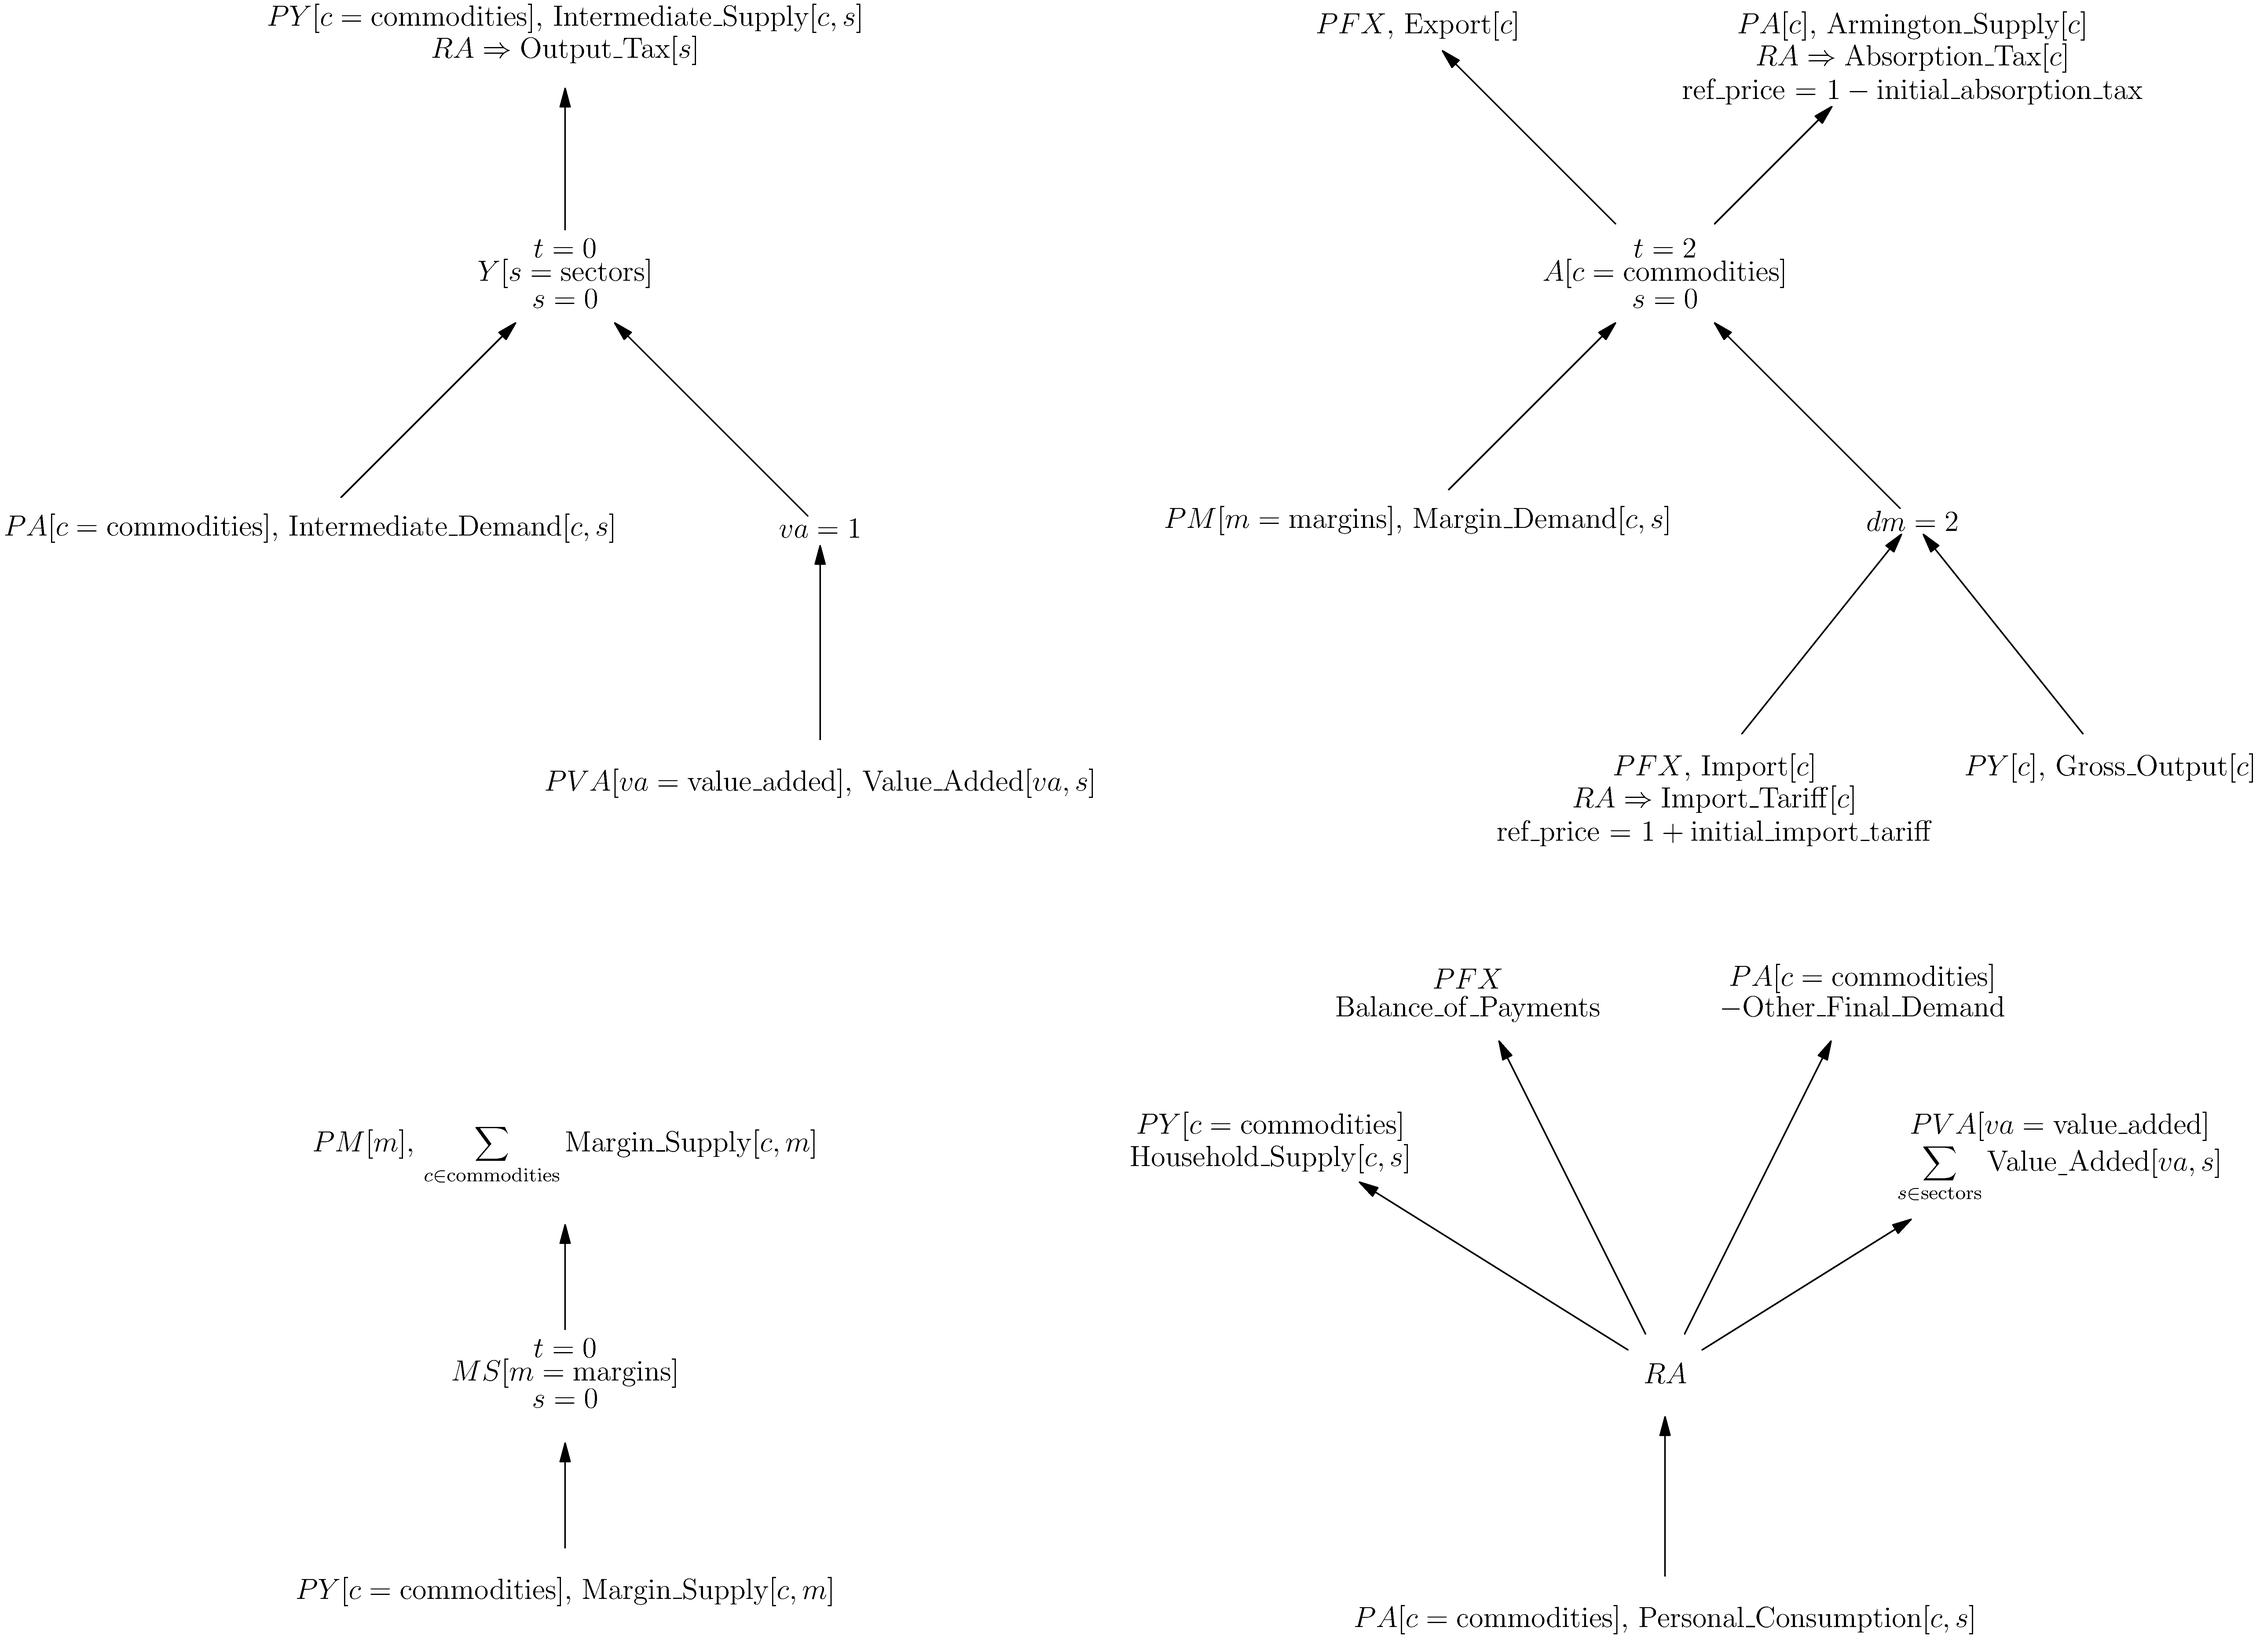
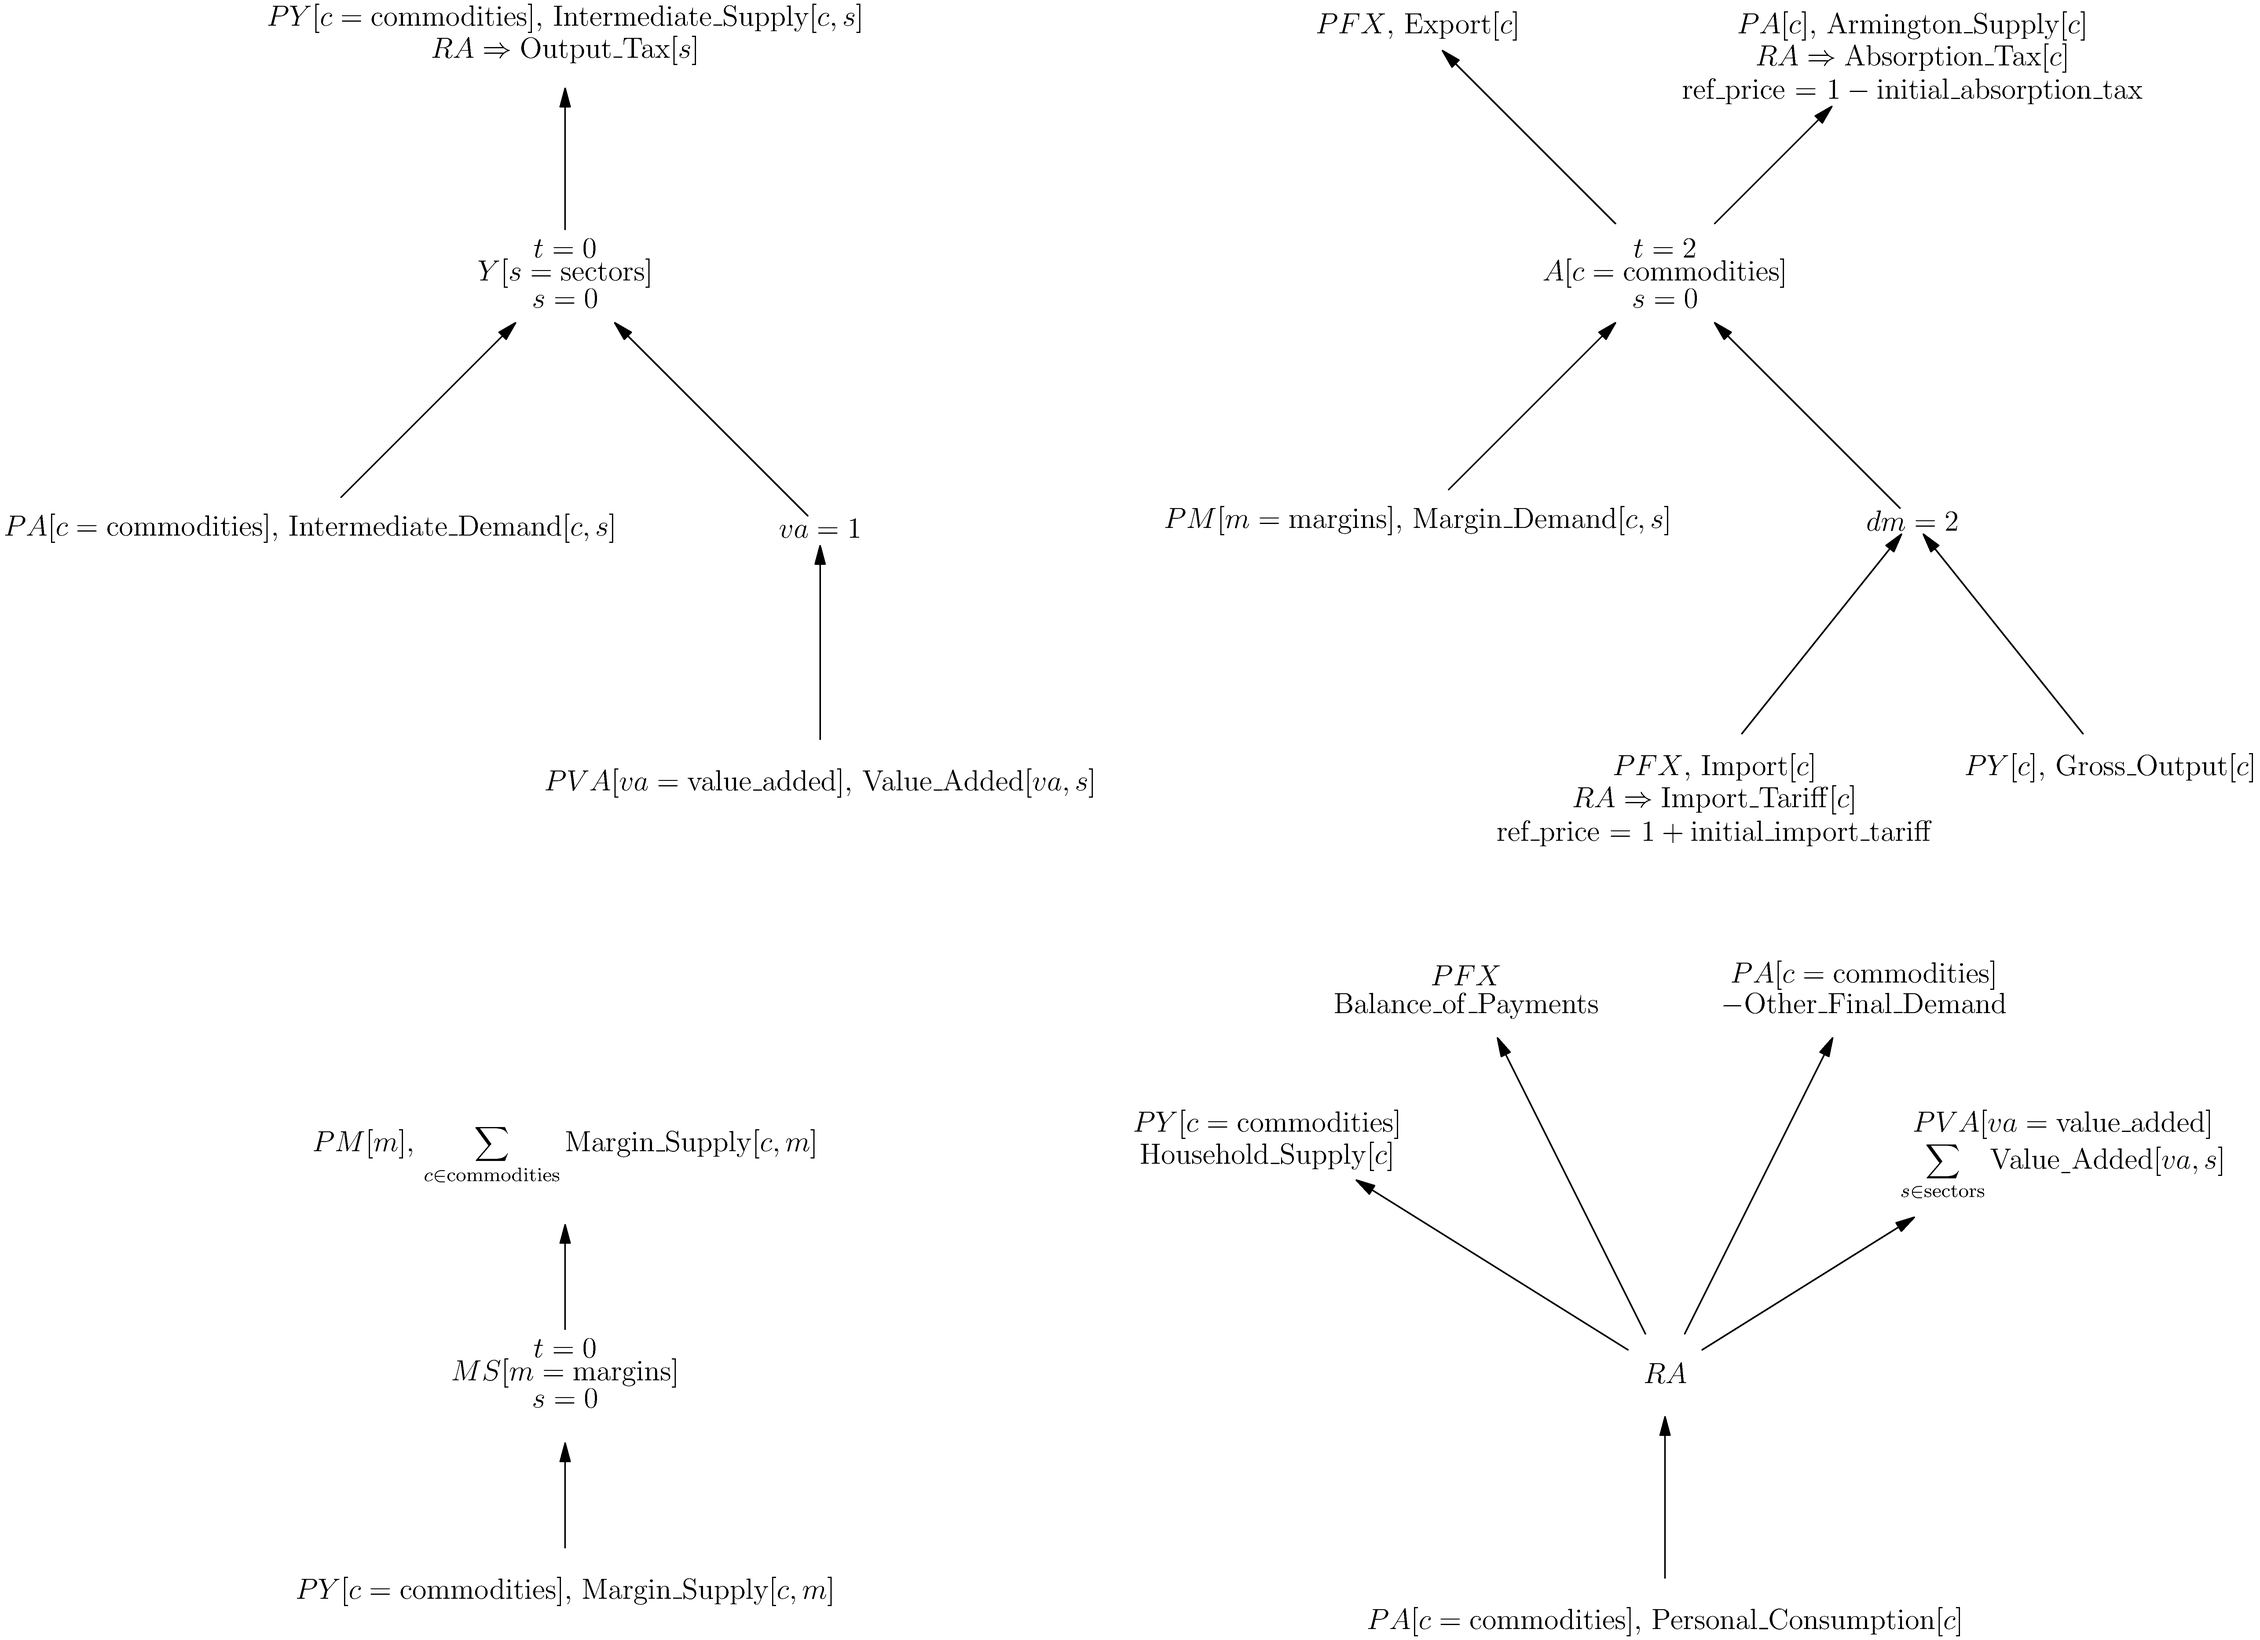
Update model documentation

diff --git a/docs/src/model/overview.md b/docs/src/model/overview.md
@@ -32,17 +32,18 @@ Notice the total value of this input at the benchmark equilibrium is the produce
 \end{align*}
 ```
 
+The same idea holds for the consumer $RA$, except that outputs represent endowments and inputs represent final demands.
 
+## Social Accounting Matrix
 
-## Social Account Matrix
+This can be converted to a traditional social accounting matrix by taking the sectors and consumers on the rows and the commodities on the columns: 
 
-This can be converted to a traditional social account matrix format by with the sectors and consumers on the rows and the commodities on the columns. However, doing so will obscure the nested structure of the production sectors, hide the elasticities, and require additional discussion to allocate taxes.
+|           | $Y[s]$                    | $A[c]$              | $MS[m]$                   | $RA$ | 
+|:---:      |:---:                      |:---:                |:---:                      |:---:|
+| $PY[c]$   | Intermediate_Supply[c,s]  | -Gross_Output[c]    | -Margin_Supply[c,m]       | Household_Supply[c]      |         
+| $PA[c]$   | -Intermediate_Demand[c,s] | Armington_Supply[c] |                           | -Other_Final_Demand - Personal_Consumption[c]      |      
+| $PM[m]$   |                           | -Margin_Demand[c,s] | $\sum {\rm Margin\_Supply}[c,m]$ |       |      
+| $PFX$     |                           | Export[c]-Import[c] |                           | Balance_of_Payments     |    
+| $PVA[va]$ | Value_Added[va,s]         |                     |                           | $\sum {\rm Value\_Added}[va,s]$     |        
 
-
-| | $Y[s]$ | $A[c]$ | $MS[m]$ | $RA$ | 
-|:---:|:---:|:---:|:---:|:---:|
-| $PY[c]$   |    |    |   |       |         
-| $PA[c]$   |    |    |   |       |      
-| $PM[m]$   |    |    |   |       |      
-| $PFX$     |    |    |   |       |    
-| $PVA[va]$ |    |    |   |       |        
+However, doing so will obscure the nested structure of the production sectors, hide the elasticities, and require additional discussion to allocate taxes. 
